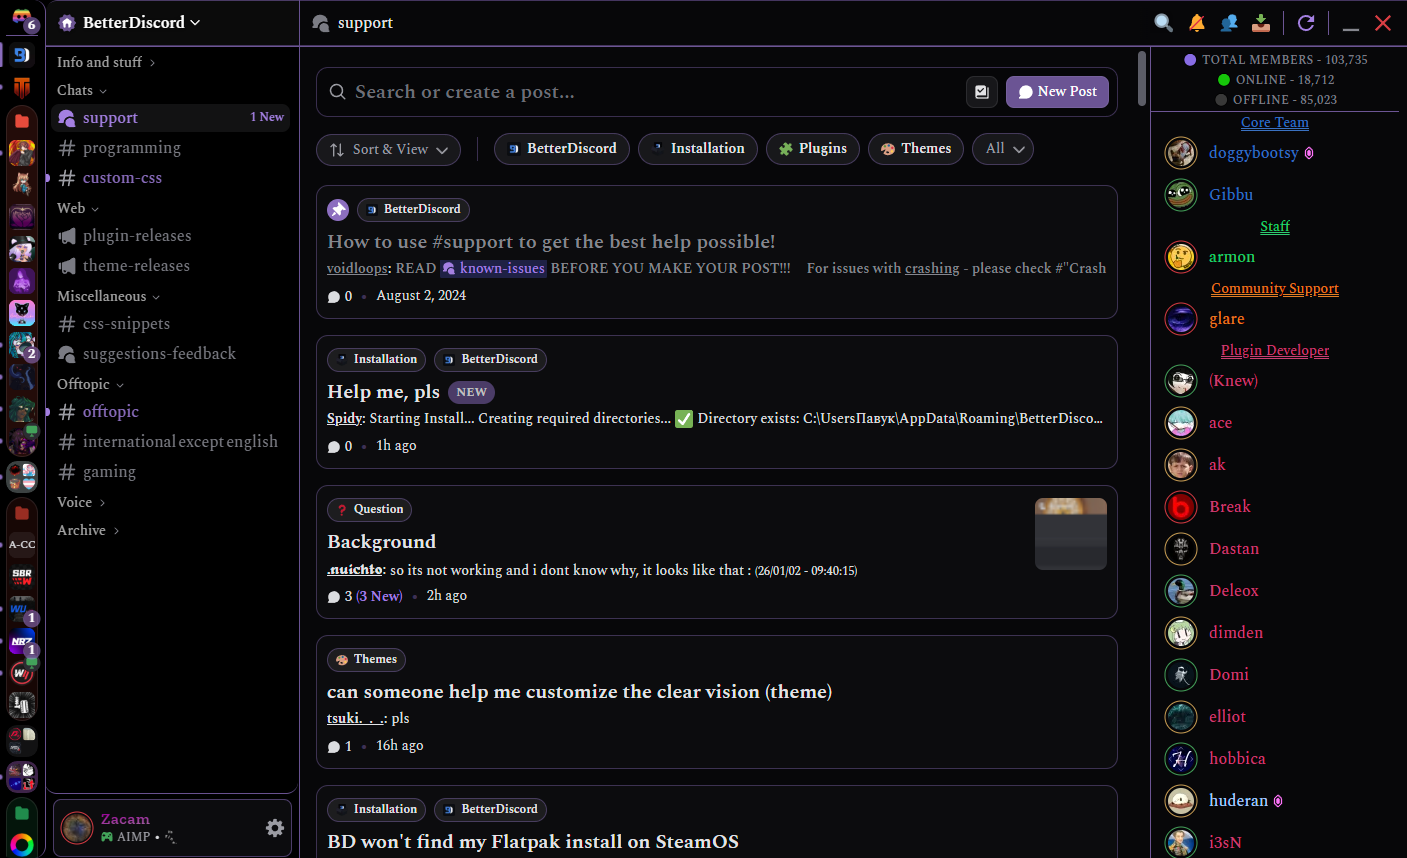
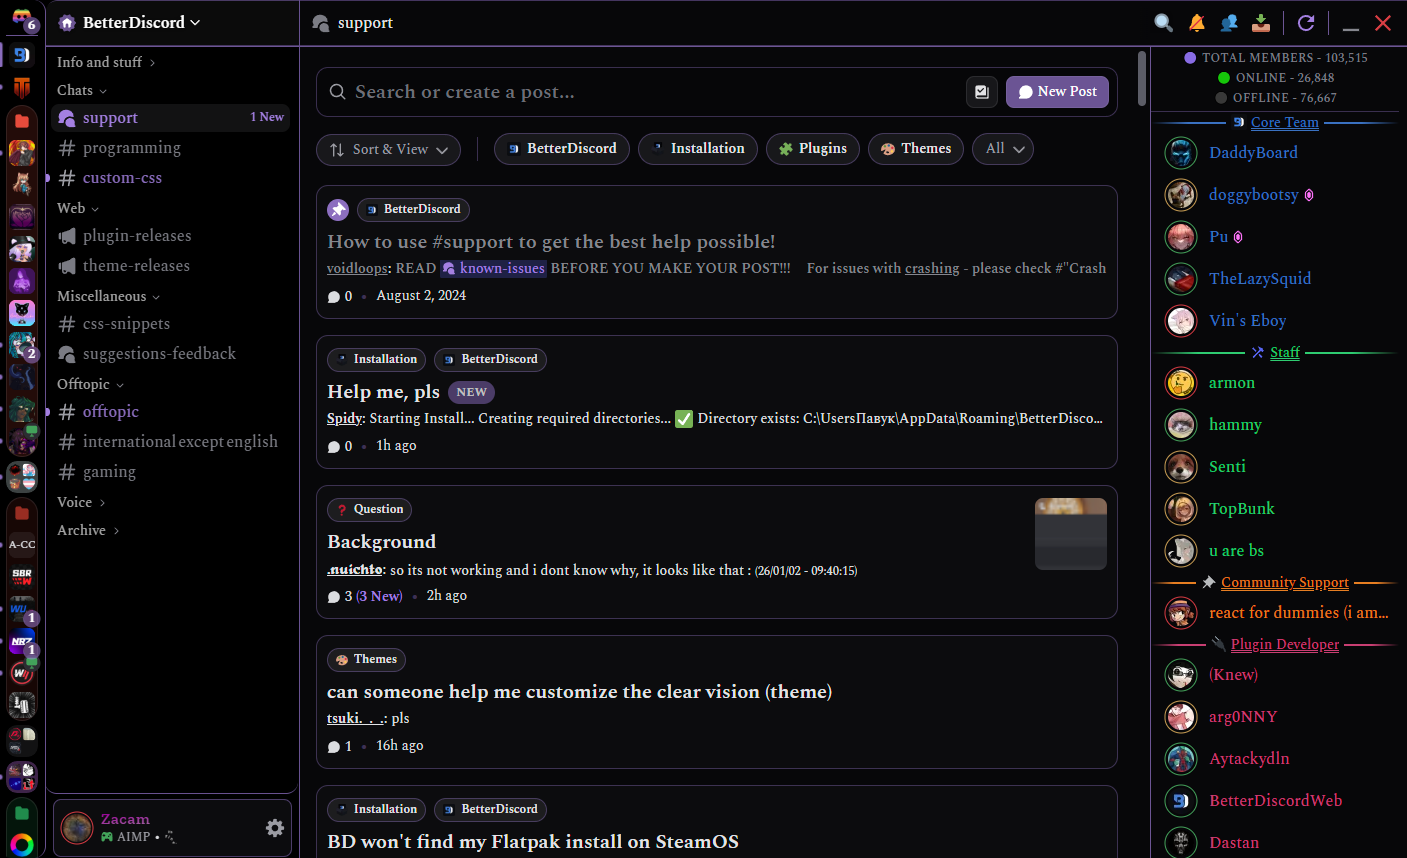
PurpleOnyx: MemberList Roles
Apply styling to MemberList Roles as inspired from ClearVision; modified to inherit Role Colors; adjust span removal to only target Role Count.

Fix "Replying To" message background and :hover

Changed region(s): [[0.8252, 0.0606, 0.978, 1.0]]

diff --git a/PurpleOnyx/PurpleOnyx.theme.css b/PurpleOnyx/PurpleOnyx.theme.css
@@ -59,6 +59,7 @@
 	--oPur-64: rgba(164,128,226,0.64);
 	--oPur-84: rgba(164,128,226,0.84);
 	--oPurple: rgb(164,128,226);
+	--brand-10a: rgba(164,128,226,0.15) !important;
 	--brand-300: var(--oPur-64) !important;
 	--brand-500: var(--oPur-84) !important;
 	--text-link: var(--oPur-84) !important;
@@ -74,6 +75,7 @@
 	--input-border-hover: var(--oPur-42) !important;
 	--input-border-active: var(--oPur-64) !important;
 	--mention-foreground: rgb(164,128,226) !important;
+	--message-highlight-background-default: rgba(164,128,226,0.15) !important;
 	--message-mentioned-background-default: rgba(164,128,226,0.05) !important;
 	--message-mentioned-background-hover: rgba(164,128,226,0.05) !important;
 	--radio-background-selected-default: var(--oPur-64) !important;
@@ -1203,7 +1205,8 @@ main ol[data-list-id="chat-messages"] li:has(.groupStart__5126c):before {
 }
 
  /* Remove background highlighting on Scrolling Hover */
-.message__5126c.wrapper_c19a55.compact_c19a55.zalgo_c19a55:not(.mentioned__5126c):hover {
+.message__5126c.wrapper_c19a55.cozy_c19a55.zalgo_c19a55:not(.mentioned__5126c, .replying__5126c):hover,
+.message__5126c.wrapper_c19a55.compact_c19a55.zalgo_c19a55:not(.mentioned__5126c, .replying__5126c):hover {
 	background: unset;
 }
 
@@ -1333,12 +1336,31 @@ h3.membersGroup_c8ffbb {
 		text-decoration-color: inherit;
 		text-decoration-style: double;
 	}
-	span:not(.membersGroupName_c8ffbb) {
+	span:not(.membersGroupName_c8ffbb):last-of-type {
 		display: none;
 	}
 	.membersGroupHeader_c8ffbb {
 		justify-content: center;
 	}
+}
+
+ /* Role Gradients, Inspired by ClearVision */
+.membersGroupHeader_c8ffbb:before {
+	content: "";
+	height: 2px;
+	flex-grow: 1;
+	background: linear-gradient(to left, currentColor 50%, transparent);
+	margin-top: 8px;
+	margin-right: 4px;
+}
+
+.membersGroupHeader_c8ffbb:after {
+	content: "";
+	height: 2px;
+	flex-grow: 1;
+	background: linear-gradient(to right, currentColor 50%, transparent);
+	margin-top: 8px;
+	margin-left: 4px;
 }
 
  /* MemberCounter Plugin */

diff --git a/PurpleOnyx/PurpleOnyx-Lite.theme.css b/PurpleOnyx/PurpleOnyx-Lite.theme.css
@@ -35,6 +35,7 @@
 	--input-border-hover: var(--oPur-42) !important;
 	--input-border-active: var(--oPur-64) !important;
 	--mention-foreground: rgb(164,128,226) !important;
+	--message-highlight-background-default: rgba(164,128,226,0.15) !important;
 	--message-mentioned-background-default: rgba(164,128,226,0.05) !important;
 	--message-mentioned-background-hover: rgba(164,128,226,0.05) !important;
 	--radio-background-selected-default: var(--oPur-64) !important;
@@ -1093,7 +1094,8 @@ main ol[data-list-id="chat-messages"] li:has(.groupStart__5126c):before {
 }
 
  /* Remove background highlighting on Scrolling Hover */
-.message__5126c.wrapper_c19a55.compact_c19a55.zalgo_c19a55:not(.mentioned__5126c):hover {
+.message__5126c.wrapper_c19a55.cozy_c19a55.zalgo_c19a55:not(.mentioned__5126c, .replying__5126c):hover,
+.message__5126c.wrapper_c19a55.compact_c19a55.zalgo_c19a55:not(.mentioned__5126c, .replying__5126c):hover {
 	background: unset;
 }
 
@@ -1228,12 +1230,31 @@ h3.membersGroup_c8ffbb {
 		text-decoration-color: inherit;
 		text-decoration-style: double;
 	}
-	span:not(.membersGroupName_c8ffbb) {
+	span:not(.membersGroupName_c8ffbb):last-of-type {
 		display: none;
 	}
 	.membersGroupHeader_c8ffbb {
 		justify-content: center;
 	}
+}
+
+ /* Role Gradients, Inspired by ClearVision */
+.membersGroupHeader_c8ffbb:before {
+	content: "";
+	height: 2px;
+	flex-grow: 1;
+	background: linear-gradient(to left, currentColor 50%, transparent);
+	margin-top: 8px;
+	margin-right: 4px;
+}
+
+.membersGroupHeader_c8ffbb:after {
+	content: "";
+	height: 2px;
+	flex-grow: 1;
+	background: linear-gradient(to right, currentColor 50%, transparent);
+	margin-top: 8px;
+	margin-left: 4px;
 }/*</Members List>*/
 
 /* DMs                                                                                                          */
